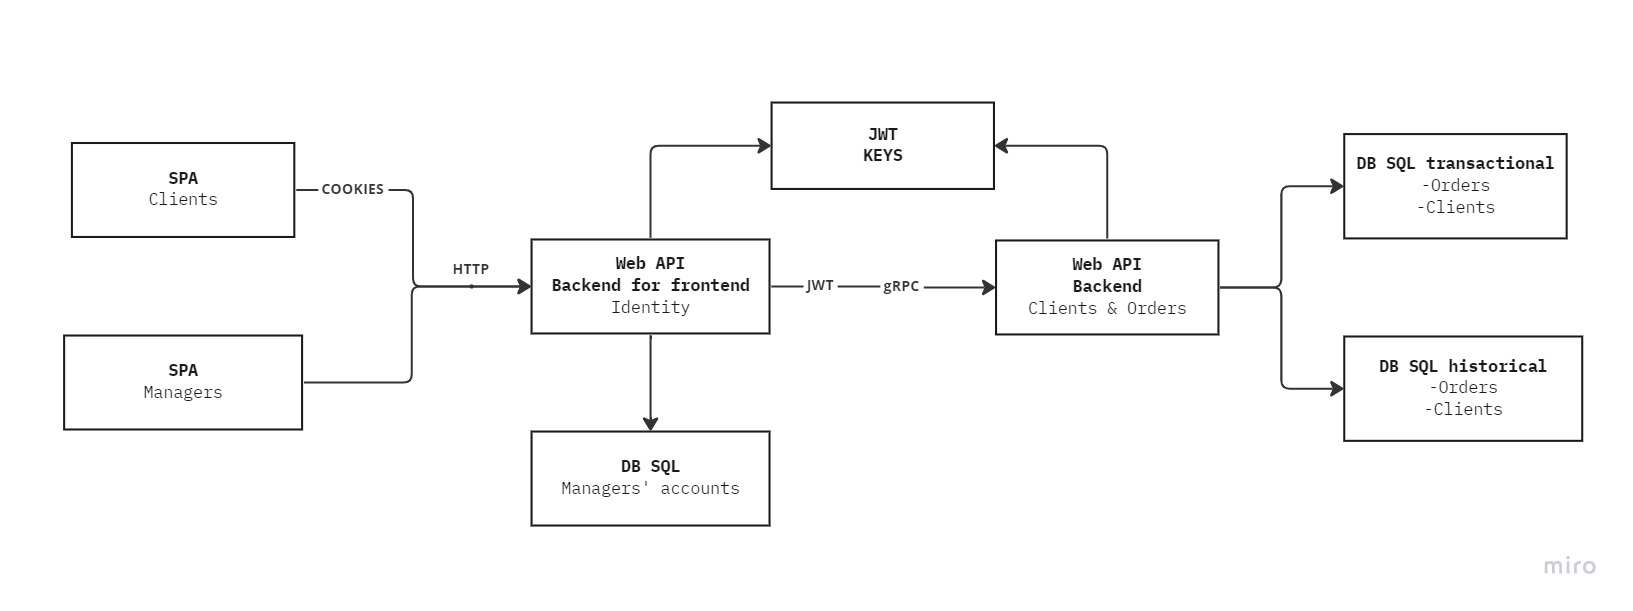
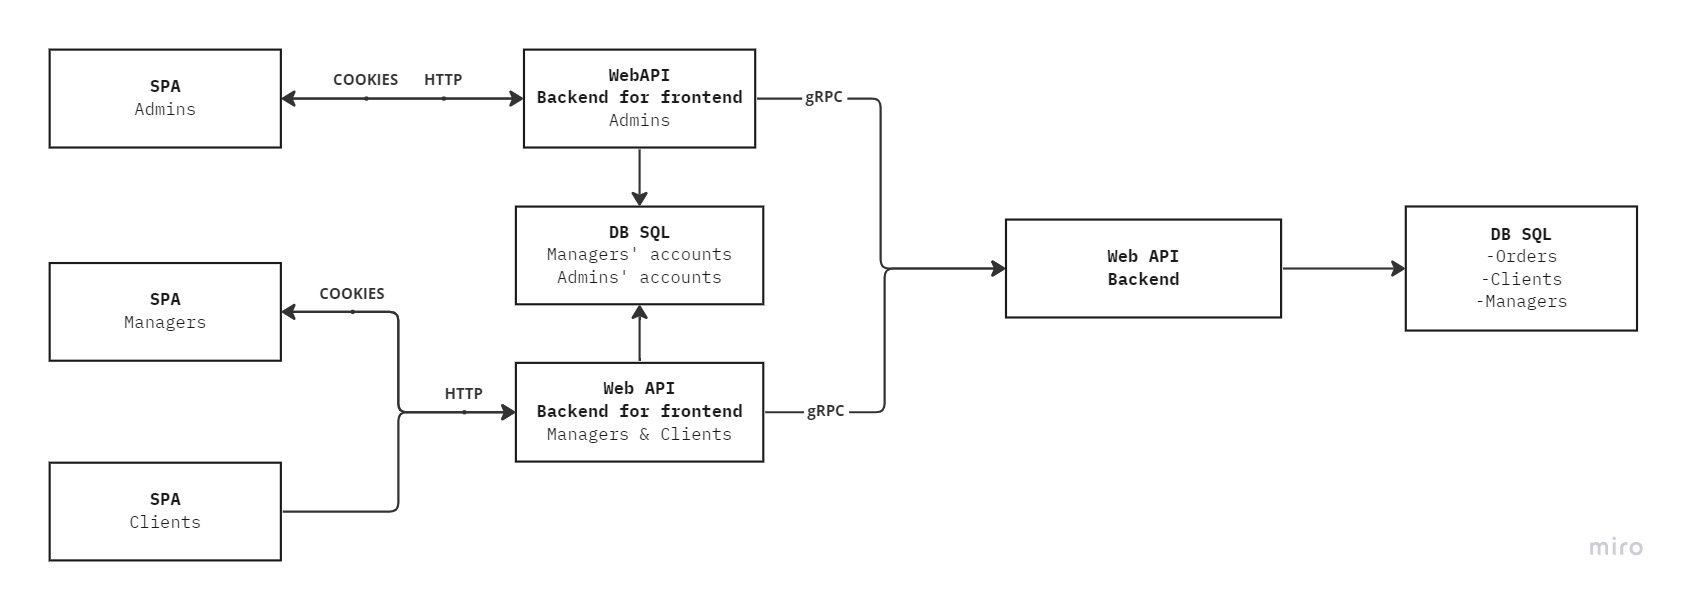
Add models.

diff --git a/Backend/Crm.Backend.Core/Models/Managers/Manager.cs b/Backend/Crm.Backend.Core/Models/Managers/Manager.cs
@@ -1,0 +1,29 @@
+using Ardalis.GuardClauses;
+using Crm.Backend.Core.Models.Orders;
+using Crm.Backend.Core.Models.Shared;
+
+namespace Crm.Backend.Core.Models.Managers
+{
+    public class Manager : Entity
+    {
+        public Guid SupervisorId { get; private set; }
+        public FullName FullName { get; }
+        public ContactInfo ContactInfo { get; }
+        internal IList<OrderInWork> OrdersInWork { get; init; }
+        internal IList<CompletedOrder> CompletedOrders { get; init; }
+
+        internal Manager(FullName fullName, ContactInfo contactInfo, Guid supervisorId)
+        {
+            FullName = fullName ?? throw new ArgumentNullException(nameof(fullName));
+            ContactInfo = contactInfo ?? throw new ArgumentNullException(nameof(contactInfo));
+            SetSupervisor(supervisorId);
+            OrdersInWork = new List<OrderInWork>();
+            CompletedOrders = new List<CompletedOrder>();
+        }
+
+        internal void SetSupervisor(Guid supervisorId)
+        {
+            SupervisorId = Guard.Against.NullOrEmpty(supervisorId, nameof(supervisorId));
+        }
+    }
+}

diff --git a/Backend/Crm.Backend.Core/Models/Orders/CompletedOrder.cs b/Backend/Crm.Backend.Core/Models/Orders/CompletedOrder.cs
@@ -1,0 +1,35 @@
+using Ardalis.GuardClauses;
+
+namespace Crm.Backend.Core.Models.Orders
+{
+    public class CompletedOrder : Order
+    {
+        public Guid ManagerId { get; }
+        public DateTimeOffset Assigned { get; }
+        public DateTimeOffset Closed { get; }
+        public CompletionStatus Status { get; }
+        public string Comment { get; }
+
+        internal CompletedOrder(Guid clientId, 
+            Guid managerId, 
+            DateTimeOffset timeCreated,
+            DateTimeOffset timeAssigned,
+            string description, 
+            CompletionStatus completionStatus,
+            string comment) : base(clientId, timeCreated, description)
+        {
+            ManagerId = Guard.Against.NullOrEmpty(managerId, nameof(managerId));
+            Assigned = timeAssigned;
+            Closed = DateTimeOffset.Now;
+            Status = completionStatus;
+            Comment = Guard.Against.NullOrWhiteSpace(comment, nameof(comment));
+        }
+
+        public enum CompletionStatus
+        {
+            Fulfilled,
+            Canceled,
+            Rejected
+        }
+    }
+}

diff --git a/Backend/Crm.Backend.Core/Models/Clients/Client.cs b/Backend/Crm.Backend.Core/Models/Clients/Client.cs
@@ -1,0 +1,32 @@
+using Ardalis.GuardClauses;
+using Crm.Backend.Core.Models.Orders;
+using Crm.Backend.Core.Models.Shared;
+
+namespace Crm.Backend.Core.Models.Clients
+{
+    public class Client : Entity
+    {
+        public string Name { get; private set; } = null!;
+        public string Company { get; private set; } = null!;
+        public ContactInfo ContactInfo{ get; }
+        internal IList<Order> Orders { get; init; }
+
+        internal Client(string name, ContactInfo contactInfo, string company)
+        {
+            SetName(name);
+            SetCompany(company);
+            ContactInfo = contactInfo ?? throw new ArgumentNullException(nameof(contactInfo));
+            Orders = new List<Order>();
+        }
+
+        internal void SetCompany(string company)
+        {
+            Company = Guard.Against.NullOrWhiteSpace(company, nameof(company));
+        }
+
+        internal void SetName(string name)
+        {
+            Guard.Against.NullOrWhiteSpace(name, nameof(name));
+        }
+    }
+}

diff --git a/Backend/Crm.Backend.Core/Models/Orders/Order.cs b/Backend/Crm.Backend.Core/Models/Orders/Order.cs
@@ -1,0 +1,29 @@
+using Ardalis.GuardClauses;
+
+namespace Crm.Backend.Core.Models.Orders
+{
+    public abstract class Order : Entity
+    {
+        public Guid ClientId { get; }
+        public DateTimeOffset Created { get; }
+        public string Description { get; private set; }
+        
+        internal Order(Guid clientId, DateTimeOffset timeCreated)
+        {
+            ClientId = Guard.Against.NullOrEmpty(clientId, nameof(clientId));
+            if (timeCreated > DateTimeOffset.Now) throw new ArgumentException(nameof(timeCreated));        
+            Created = timeCreated;
+            Description = string.Empty;
+        }
+
+        internal Order(Guid clientId, DateTimeOffset timeCreated, string description) : this(clientId, timeCreated)
+        {
+            SetDescription(description);
+        }
+
+        internal void SetDescription(string description)
+        {
+            Description = Guard.Against.NullOrWhiteSpace(description, nameof(description));
+        }
+    }
+}

diff --git a/Backend/Crm.Backend.Core/Models/Shared/ContactInfo.cs b/Backend/Crm.Backend.Core/Models/Shared/ContactInfo.cs
@@ -1,0 +1,32 @@
+using PhoneNumbers;
+using System.Net.Mail;
+using static EmailValidation.EmailValidator;
+
+namespace Crm.Backend.Core.Models.Shared
+{
+    public class ContactInfo
+    {
+        public MailAddress Email { get; private set; } = null!;
+        public PhoneNumber PhoneNumber { get; private set; } = null!;
+
+        internal ContactInfo(MailAddress email, PhoneNumber phonenumber)
+        {
+            SetEmail(email);
+            SetPhoneNumber(phonenumber);
+        }
+
+        internal void SetEmail(MailAddress email)
+        {
+            if(email == null || !Validate(email.Address))
+                throw new ArgumentException(null, nameof(email));
+            Email = email;
+        }
+
+        internal void SetPhoneNumber(PhoneNumber phoneNumber)
+        {
+            if(phoneNumber == null || !phoneNumber.IsInitialized)
+                throw new ArgumentException(null, nameof(phoneNumber));
+            PhoneNumber = phoneNumber;
+        }
+    }
+}

diff --git a/Backend/Crm.Backend.Core/Models/Supervisors/Supervisor.cs b/Backend/Crm.Backend.Core/Models/Supervisors/Supervisor.cs
@@ -1,0 +1,19 @@
+using Crm.Backend.Core.Models.Managers;
+using Crm.Backend.Core.Models.Shared;
+
+namespace Crm.Backend.Core.Models.Supervisors
+{
+    public class Supervisor : Entity
+    {
+        public FullName FullName { get; }
+        public ContactInfo ContactInfo { get; }
+        internal IList<Manager> Managers { get; init; }
+
+        internal Supervisor(FullName fullName, ContactInfo contactInfo)
+        {
+            FullName = fullName ?? throw new ArgumentNullException(nameof(fullName));
+            ContactInfo = contactInfo ?? throw new ArgumentNullException(nameof(contactInfo));
+            Managers = new List<Manager>();
+        }
+    }
+}

diff --git a/Backend/Crm.Backend.Core/Models/Shared/FullName.cs b/Backend/Crm.Backend.Core/Models/Shared/FullName.cs
@@ -1,0 +1,18 @@
+using Ardalis.GuardClauses;
+
+namespace Crm.Backend.Core.Models.Shared
+{
+    public class FullName
+    {
+        public string FirstName { get; }
+        public string MiddleName { get; }
+        public string LastName { get; }
+
+        internal FullName(string firstName, string middleName, string lastName)
+        {
+            FirstName = Guard.Against.NullOrWhiteSpace(firstName, nameof(firstName));
+            LastName = Guard.Against.NullOrWhiteSpace(lastName, nameof(lastName));
+            MiddleName = Guard.Against.NullOrWhiteSpace(middleName, nameof(middleName));
+        }
+    }
+}

diff --git a/Backend/Crm.Backend.Core/Models/Orders/OrderInWork.cs b/Backend/Crm.Backend.Core/Models/Orders/OrderInWork.cs
@@ -1,0 +1,19 @@
+using Ardalis.GuardClauses;
+
+namespace Crm.Backend.Core.Models.Orders
+{
+    public class OrderInWork : Order
+    {
+        public Guid ManagerId { get; }
+        public DateTimeOffset Assigned { get; }
+
+        internal OrderInWork(Guid managerId, 
+            Guid clientId, 
+            DateTimeOffset timeCreated, 
+            string description) : base(clientId, timeCreated, description)
+        {
+            ManagerId = Guard.Against.NullOrEmpty(managerId, nameof(managerId));
+            Assigned = DateTimeOffset.Now;
+        }
+    }
+}

diff --git a/Backend/Crm.Backend.Core/Models/Orders/CreatedOrder.cs b/Backend/Crm.Backend.Core/Models/Orders/CreatedOrder.cs
@@ -1,0 +1,11 @@
+namespace Crm.Backend.Core.Models.Orders
+{
+    public class CreatedOrder : Order
+    {
+        internal CreatedOrder(Guid clientId) : base(clientId, DateTimeOffset.Now)
+        { }
+
+        internal CreatedOrder(Guid clientId, string description) : base(clientId, DateTimeOffset.Now, description)
+        { }
+    }
+}

diff --git a/Backend/Crm.Backend.Core/Models/Entity.cs b/Backend/Crm.Backend.Core/Models/Entity.cs
@@ -1,0 +1,7 @@
+namespace Crm.Backend.Core.Models
+{
+    public abstract class Entity
+    {
+        public Guid Id { get; private set; }
+    }
+}

diff --git a/README.md b/README.md
@@ -1,17 +1,21 @@
 # CRM
 A simple CRM that covers the following use-cases:
 
-- Clients:
+- Client:
   1. Browse services
   2. View example projects
   3. View contacts
   4. Place orders
 
-- Managers:
-  1. View clients
-  2. View orders
-  3. View analytics
-  4. Create orders
-  5. Manage order state and details
+- Manager:
+  1. View his clients
+  2. View his orders
+  3. View personal analytics
+  4. Manage order state and details
+
+- Supervisor:
+  1. Assign orders to managers
+  2. View managers' stats
+  3. Manage managers' accounts
 
 ![Architecture](https://github.com/daniil-saraev/crm-project/blob/main/Architecture.jpg)
